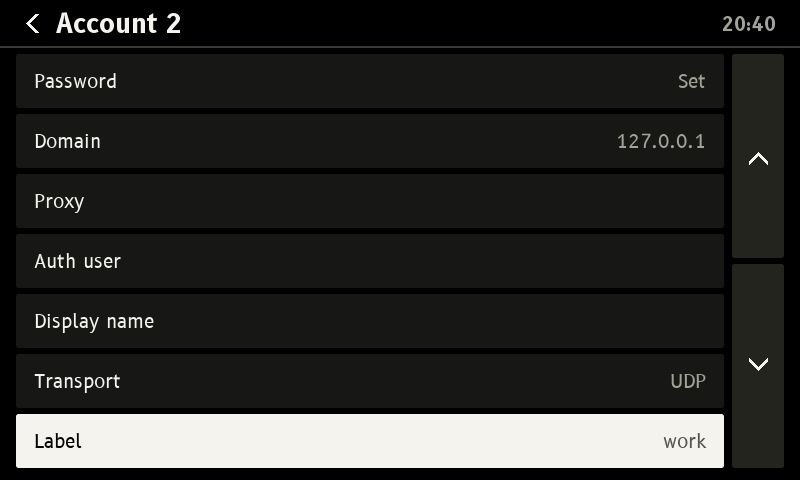
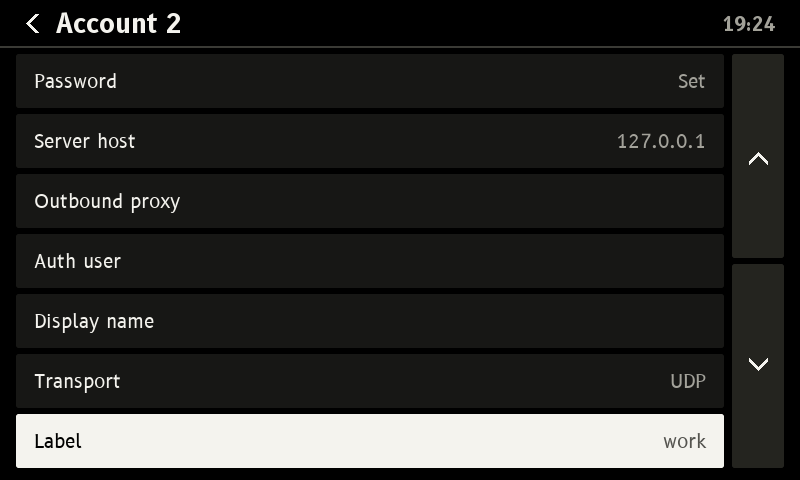
Account fields: Server host and Outbound proxy (#77)
Domain is now Server host and Proxy is Outbound proxy, on the phone and the web setup page. A port goes after the host (host:port, an IPv6 address in brackets); without one the server is found by DNS SRV. The web page refuses a bad port. The settings file keeps its keys, so existing domain= files work.

Changed region(s): [[0.0312, 0.4062, 0.2188, 0.4375], [0.0312, 0.2812, 0.1875, 0.3125], [0.9062, 0.0312, 0.9688, 0.0625]]

diff --git a/webconfig/pages.c b/webconfig/pages.c
@@ -306,9 +306,9 @@ static void page_accounts(struct req *r)
         form_begin(r, "/accounts/save", NULL);
         H("<input type='hidden' name='n' value='%d'><div class='fields'>", n);
         field("User", "user", val(f, "user", ""), "autocomplete='off' autocapitalize='none' spellcheck='false'", NULL);
-        field("Domain", "domain", val(f, "domain", ""), "autocomplete='off' autocapitalize='none' spellcheck='false'", NULL);
+        field("Server host", "domain", val(f, "domain", ""), "autocomplete='off' autocapitalize='none' spellcheck='false' placeholder='host or host:port'", NULL);
         H("<label class='field'><span>Password</span><input type='password' name='password' value='' maxlength='200' autocomplete='new-password' placeholder='%r'></label>", pw ? "Set. Empty keeps it" : "Not set");
-        field("Proxy", "outbound_proxy", val(f, "outbound_proxy", ""), "autocapitalize='none' spellcheck='false' placeholder='Optional'", NULL);
+        field("Outbound proxy", "outbound_proxy", val(f, "outbound_proxy", ""), "autocapitalize='none' spellcheck='false' placeholder='Optional'", NULL);
         field("Auth user", "auth_user", val(f, "auth_user", ""), "autocomplete='off' autocapitalize='none' spellcheck='false' placeholder='Optional'", NULL);
         field("Display name", "display_name", val(f, "display_name", ""), "placeholder='Optional'", NULL);
         H("<label class='field'><span>Transport</span><select name='transport'>");
@@ -331,6 +331,19 @@ static void page_accounts(struct req *r)
     page_end(r);
 }
 
+/* the server host: a name or address, with :port after it if not the usual
+ * one (an IPv6 address in brackets). Empty is let through: the account is
+ * then just not used. */
+static int server_host_ok(const char *h)
+{
+    const char *colon = h[0] == '[' ? (strchr(h, ']') ? strchr(h, ']') + 1 : NULL) : strchr(h, ':');
+    if (!colon) return h[0] != '[';
+    if (!*colon) return 1;
+    if (*colon != ':' || !colon[1] || strlen(colon + 1) > 5 || strspn(colon + 1, "0123456789") != strlen(colon + 1)) return 0;
+    long port = atol(colon + 1);
+    return port >= 1 && port <= 65535;
+}
+
 static void post_account_save(struct req *r)
 {
     static const char *const keys[] = {"user", "domain", "outbound_proxy", "auth_user", "display_name", "label", "voicemail"};
@@ -345,6 +358,7 @@ static void post_account_save(struct req *r)
     snprintf(pw, sizeof pw, "%s", form(r, "password"));
     if (strlen(form(r, "password")) > 200 || strpbrk(pw, "\r\n")) ok = 0;
     if (!ok) { flash(r, 1, "Account %d not saved: a value is too long.", n); redirect(r, where); return; }
+    if (!server_host_ok(v[1])) { flash(r, 1, "Account %d not saved: server host must be host or host:port.", n); redirect(r, where); return; }
     if (strcmp(tr, "udp") && strcmp(tr, "tcp") && strcmp(tr, "tls")) tr = "udp";
     for (int i = 0; i < 7 && ok; i++) ok = set(f, keys[i], v[i]) == 0;
     if (ok) ok = cfg_set(f, "transport", tr) == 0 && cfg_set(f, "enabled", !strcmp(form(r, "enabled"), "on") ? "on" : "off") == 0;

diff --git a/webconfig/tests/test_web.py b/webconfig/tests/test_web.py
@@ -409,6 +409,8 @@ class Paired(unittest.TestCase):
         self.assertEqual(os.stat(os.path.join(p.config, "sip")).st_mode & 0o777, 0o600)
         self.assertIn("sip", p.applied_list())
         page = b.get("/accounts").body
+        self.assertIn("<span>Server host</span>", page)
+        self.assertIn("<span>Outbound proxy</span>", page)
         # write only: the page says it is set and never what it is; what is shown is escaped
         self.assertNotIn("s3cret", page)
         self.assertIn("Set. Empty keeps it", page)
@@ -429,6 +431,17 @@ class Paired(unittest.TestCase):
         # refusals
         self.bad("/accounts/save", {"n": "2", "user": "x" * 300, "domain": "d", "transport": "udp"}, "/accounts")
         self.assertIsNone(p.get("sip2", "user"))
+        # the server host takes a port; a bad one is refused
+        self.ok("/accounts/save", {"n": "2", "user": "3003", "domain": "pbx.example.org:5070", "outbound_proxy": "edge.example.org:5080",
+                                   "transport": "udp", "enabled": "on"}, "/accounts")
+        self.assertEqual(p.get("sip2", "domain"), "pbx.example.org:5070")
+        self.assertEqual(p.get("sip2", "outbound_proxy"), "edge.example.org:5080")
+        self.ok("/accounts/save", {"n": "2", "user": "3003", "domain": "[2001:db8::1]:5060", "transport": "udp"}, "/accounts")
+        self.assertEqual(p.get("sip2", "domain"), "[2001:db8::1]:5060")
+        for host in ("pbx.example.org:0", "pbx.example.org:65536", "pbx.example.org:sip", "pbx.example.org:", "2001:db8::1", "[2001:db8::1"):
+            self.bad("/accounts/save", {"n": "2", "user": "3003", "domain": host, "transport": "udp"}, "/accounts")
+            self.assertEqual(p.get("sip2", "domain"), "[2001:db8::1]:5060")
+        self.ok("/accounts/remove", {"n": "2", "sure": "yes"}, "/accounts")
         self.assertEqual(b.post("/accounts/save", {"n": "7", "user": "x"}).status, 303)
         self.assertFalse(os.path.exists(os.path.join(p.config, "sip7")))
         self.bad("/accounts/remove", {"n": "6"}, "/accounts")          # the box was not ticked

diff --git a/shell/settings.c b/shell/settings.c
@@ -791,8 +791,8 @@ static void build_sip(const char *arg)
     snprintf(title, sizeof title, "Account %d", n);
     add_stored(R_TEXT, "User", f, "user", "", 0);
     add_stored(R_TEXT, "Password", f, "password", "", F_PASSWORD);
-    add_stored(R_TEXT, "Domain", f, "domain", "", 0);
-    add_stored(R_TEXT, "Proxy", f, "outbound_proxy", "", 0);
+    add_stored(R_TEXT, "Server host", f, "domain", "", 0);
+    add_stored(R_TEXT, "Outbound proxy", f, "outbound_proxy", "", 0);
     add_stored(R_TEXT, "Auth user", f, "auth_user", "", 0);
     add_stored(R_TEXT, "Display name", f, "display_name", "", 0);
     add_stored(R_CHOICE, "Transport", f, "transport", "udp", 0)->choices = "udp|tcp|tls";

diff --git a/docs/settings.md b/docs/settings.md
@@ -14,7 +14,7 @@ Press **Down** on the idle screen, or touch **Settings**. Everything here can al
 
 | Page | What it sets | Takes effect |
 |---|---|---|
-| Accounts | up to six accounts ([phone.md](phone.md#several-accounts)), and which is the default for calls. For each: User, Password, Domain, Proxy, Auth user, Display name, Transport, Label (a short name for this phone's screens), Voicemail, Enabled, and Remove account | on leaving an account's page: baresip is restarted if it is running. The usual account changes at once |
+| Accounts | up to six accounts ([phone.md](phone.md#several-accounts)), and which is the default for calls. For each: User, Password, Server host (`host:port` for a port), Outbound proxy, Auth user, Display name, Transport, Label (a short name for this phone's screens), Voicemail, Enabled, and Remove account | on leaving an account's page: baresip is restarted if it is running. The usual account changes at once |
 | Do not disturb | on or off, the same as Right on the idle screen ([phone.md](phone.md#do-not-disturb)) | at once |
 | Network | DHCP, or a fixed address, netmask, gateway and DNS server | on leaving the page. If the address is a different one, baresip is started again, as it listens on the address it started with |
 | Date and time | time zone, from a list | at once, in the shell and in apps started afterwards |

diff --git a/docs/guide.md b/docs/guide.md
@@ -67,7 +67,7 @@ If the power fails during Install: start from the stick again and choose Install
 | Down | Settings |
 | X, or any key above, held 5 s | key test ([shell.md](shell.md#the-key-test)) |
 
-- **Accounts.** Settings, Accounts: up to six SIP accounts. User, Password and Domain are enough for most. Calls go out from the default account; Left and Right in the dialler pick another. [phone.md](phone.md).
+- **Accounts.** Settings, Accounts: up to six SIP accounts. User, Password and Server host are enough for most; `host:port` gives a port. Calls go out from the default account; Left and Right in the dialler pick another. [phone.md](phone.md).
 - **Calls.** Lift the handset or press Speaker. Hold, mute, transfer, a second call, voicemail on the Message key. On Speaker one side is heard at a time. The headset socket is untried.
 - **Contacts and calls.** Left for contacts, Up for the call list. A name shows wherever its number does.
 - **Do not disturb.** Right on the idle screen, or Settings, Do not disturb. DND shows in the header, after the network address. Callers are told the phone is not available, nothing rings, and each call is listed as missed.

diff --git a/docs/style.md b/docs/style.md
@@ -50,7 +50,7 @@ One voice for the phone's screen ([`shell/`](../shell), [`libt48/`](../libt48)) 
 | An app that ships in the image | Built in | Part of the firmware |
 | SSH public keys | Keys, Add key, Host key | Keys that can log in |
 | Address source | DHCP, Static | From the network, a fixed address |
-| Account fields | User, Password, Domain, Proxy, Auth user, Display name, Transport, Label, Voicemail | Server or proxy (optional), Login name, if not the user |
+| Account fields | User, Password, Server host, Outbound proxy, Auth user, Display name, Transport, Label, Voicemail | Domain, Proxy, SIP server, Server or proxy (optional), Login name, if not the user |
 | The settings file download | Backup; Download, Restore | Save the settings to a file, Put a saved file back |
 
 ## Capitals and punctuation
